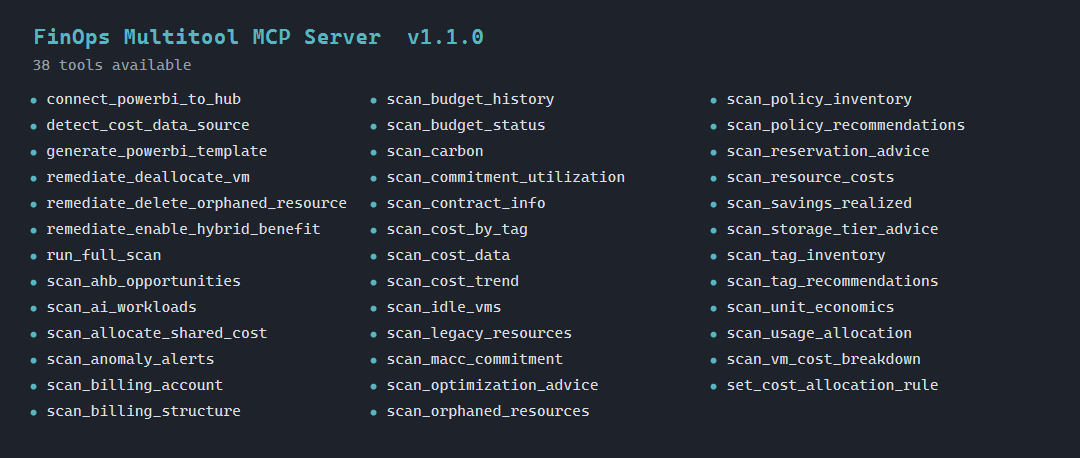
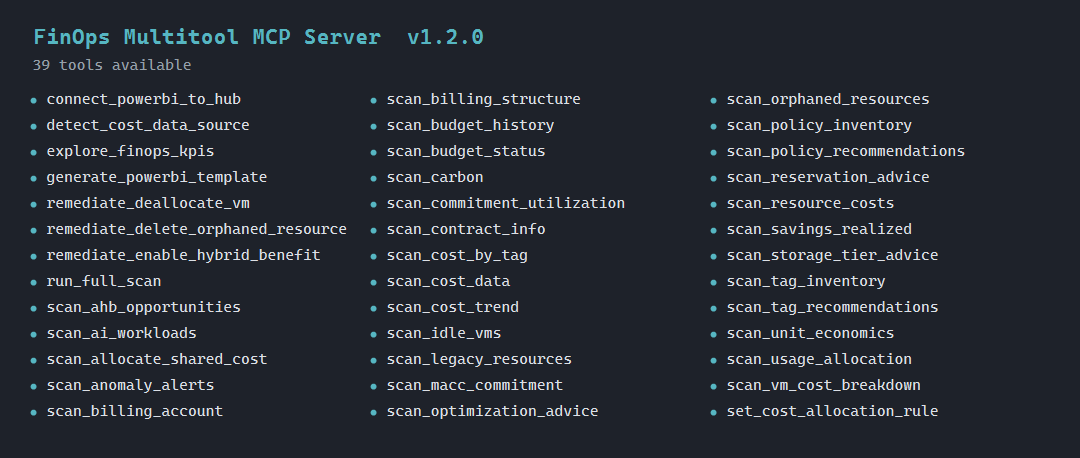
Add FinOps KPI insights to Multitool post; refresh MCP catalog screenshot (39 tools, v1.2.0)

diff --git a/posts/2026-4-16-azure-finops-multitool.md b/posts/2026-4-16-azure-finops-multitool.md
@@ -44,6 +44,8 @@ This is the one that changes how you interact with the data. The MCP server expo
 
 ![FinOps Multitool MCP server tool catalog](/assets/img/finops-multitool-mcp.png)
 
+One thing I added recently that I'm pretty happy with: FinOps KPI insights. Most people don't know the [FinOps Foundation KPI catalog](https://www.finops.org/finops-kpis/) by name, so the server surfaces it for them. Every scan automatically tags its results with the industry KPIs they map to, like Cost per GB Stored, Commitment Utilization Score, or Percentage of Untagged Costs, and computes the value when the data supports it. There's also an `explore_finops_kpis` tool to browse the KPIs grouped by FinOps domain. The point is to meet people where they are: you run a normal scan, and the tool quietly connects what it found to the metrics the FinOps community actually tracks, so you can learn the framework as you go instead of having to know it first. It never makes up a number; if it can't compute a KPI from your data, it flags the correlation and points you at the scan that would.
+
 ### Automated Function
 Headless and scheduled, and for a lot of organizations this is the natural next step after the GUI. You start with the GUI to see where you stand and fix the obvious stuff by hand. Once you know the scan is giving you the right picture, you stop running it manually and let it run itself. The automated edition deploys as an Azure Function on a timer, scans unattended, and hands off the results with no human in the loop.
 
@@ -327,6 +329,7 @@ The scan engine is in a good place. Most of the roadmap now is about meeting peo
 
 - **Hosted MCP with Entra sign-in.** Today the MCP server runs as a local process. The plan is a hosted version any user can reach from any platform, signing in with their own Entra identity and their own RBAC, so a team can share one secure endpoint instead of everyone running it locally. The write-safety gate comes along for the ride.
 - **More remediation, same guardrails.** The MCP already deallocates idle VMs, enables Hybrid Benefit, and removes orphaned resources behind the safety gate. Expect more one-click and one-prompt fixes added the same careful way: reversible first, irreversible only with explicit confirmation.
+- **Broader KPI coverage.** The first wave of FinOps KPI insights covers the metrics the tool can compute from Azure data today. Next is the rest of the catalog, including the ones that need a little outside context (revenue, general ledger, license counts) so you can fill those in and unlock KPIs like cloud spend as a percentage of revenue.
 - **Deeper data-model coverage.** More scans reading from the hub or export instead of live APIs, so large tenants get faster, fuller results with less throttling.
 - **TUI and MCP catching up to the GUI.** Export parity and more of the remediation surface in the terminal and for agents, so the form factor you pick doesn't cost you features.
 
